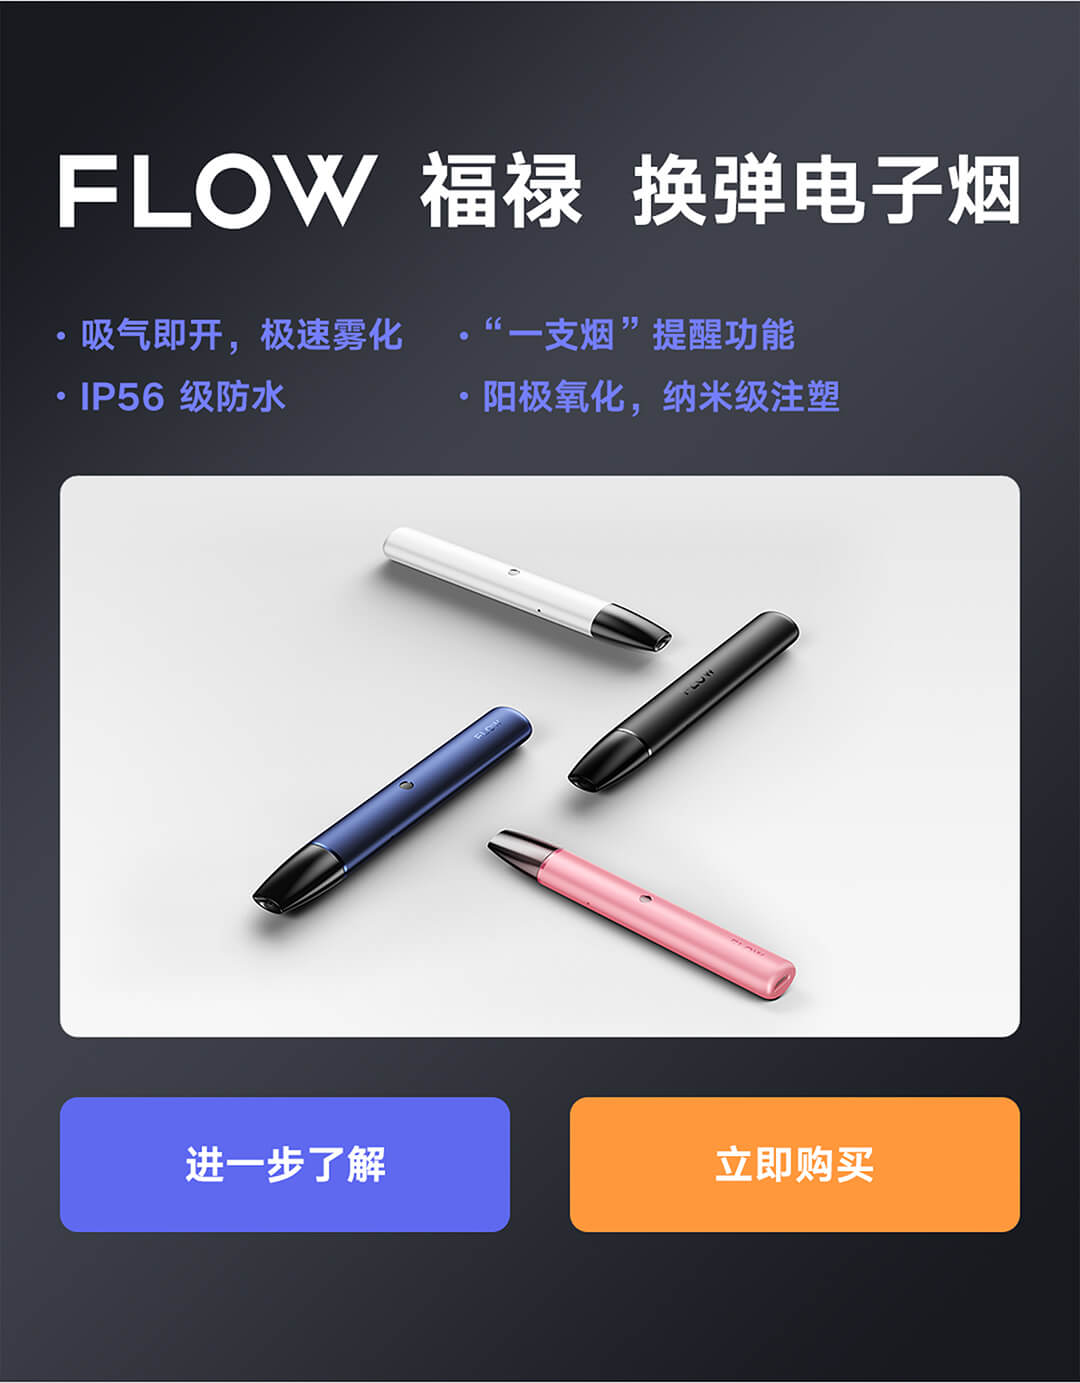
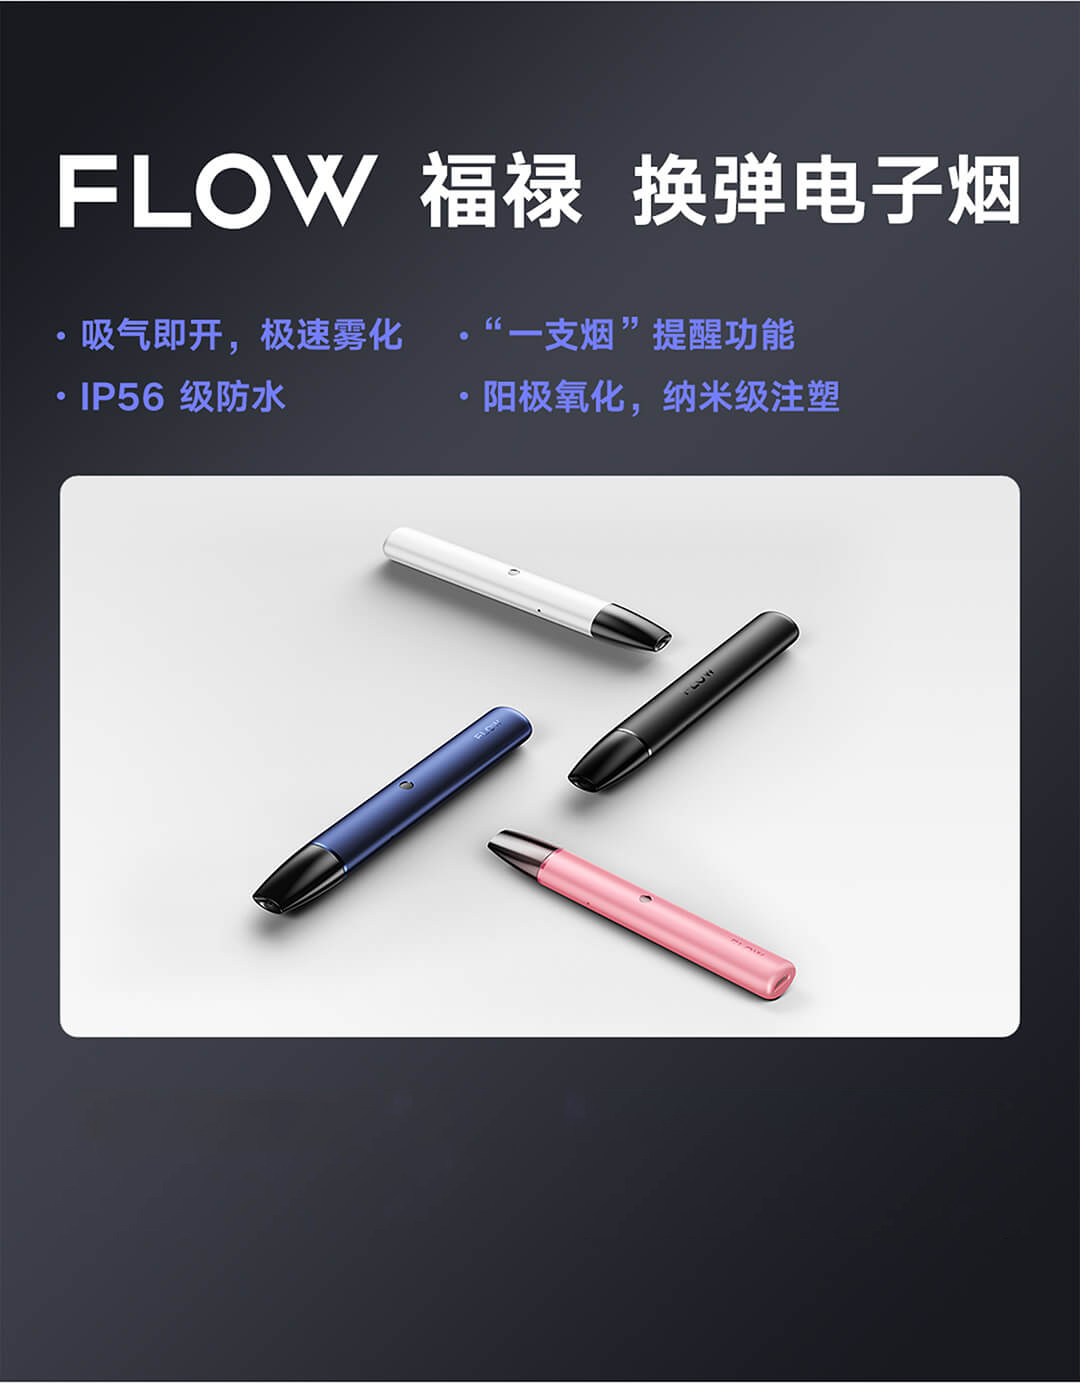
feat: remove buttons.

Changed region(s): [[0.0306, 0.7773, 0.4889, 0.9017], [0.5194, 0.7773, 0.9472, 0.9017]]

diff --git a/pages/cn/index.vue b/pages/cn/index.vue
@@ -6,29 +6,29 @@
     <div class="mini-flow">
       <img src="../../assets/images/home/home-img-3@3x.jpg" alt="FLOW 福禄小彩蛋，新一代一次性电子烟" />
       <div class="item-button">
-        <router-link to="/cn/mini-flow" tag="div"></router-link>
-        <div @click="buy('mini-flow')"></div>
+        <router-link to="/cn/mini-flow" tag="div">进一步了解</router-link>
+        <!-- <div @click="buy('mini-flow')"></div> -->
       </div>
     </div>
     <div class="flow-s">
       <img src="../../assets/images/home/home-img-4@3x.jpg" alt="FLOW 福禄 换弹电子烟 S，超长续航，一体化金属机身，多种好味道，好抽防水" />
       <div class="item-button">
-        <router-link to="/cn/flow-s" tag="div"></router-link>
-        <div @click="buy('flow-s')"></div>
+        <router-link to="/cn/flow-s" tag="div">进一步了解</router-link>
+        <!-- <div @click="buy('flow-s')"></div> -->
       </div>
     </div>
     <div class="flow">
       <img src="../../assets/images/home/home-img-5@3x.jpg" alt="FLOW 福禄 换弹电子烟" />
       <div class="item-button">
-        <router-link to="/cn/flow" tag="div"></router-link>
-        <div @click="buy('flow')"></div>
+        <router-link to="/cn/flow" tag="div">进一步了解</router-link>
+        <!-- <div @click="buy('flow')"></div> -->
       </div>
     </div>
     <div class="flow-pod">
       <img src="../../assets/images/home/home-img-6@3x.jpg" alt="FLOW 福禄 多口味烟弹" />
       <div class="item-button">
-        <router-link to="/cn/flow-pod" tag="div"></router-link>
-        <div @click="buy('flow-pod')"></div>
+        <router-link to="/cn/flow-pod" tag="div">进一步了解</router-link>
+        <!-- <div @click="buy('flow-pod')"></div> -->
       </div>
     </div>
     <img src="../../assets/images/home/home-img-7@3x.jpg" alt="提神、无烟味、呵护身边人健康" />
@@ -102,21 +102,21 @@ export default {
   }
   .item-button {
       position: absolute;
-      bottom: 10.5%;
-      width: 90%;
-      height: 2.1rem;
+      bottom: 8%;
+      width: 9rem;
+      height: 2.8rem;
+      background: #5f69ef;
+      transform: translateX(-50%);
       left: 50%;
-      transform: translate(-50%);
+      border-radius: 12px;
       div {
-        -webkit-tap-highlight-color: transparent;
-        -webkit-touch-callout: none;
-        -webkit-user-select: none;
-        height: 2.1rem;
-        float: left;
-        width: 47%;
-        &:last-child {
-          float: right;
-        }
+        font-size: 18px;
+        color: #fff;
+        font-weight: bold;
+        line-height: 2.8rem;
+        text-align: center;
+        width: 100%;
+        height: 100%;
       }
     }
 }

diff --git a/pages/cn/mini-flow.vue b/pages/cn/mini-flow.vue
@@ -14,7 +14,7 @@
     <img src="../../assets/images/mini-flow/mini-flow-img-11@3x.jpg" alt="烘焙烟草，清凉薄荷" />
     <img src="../../assets/images/mini-flow/mini-flow-img-12@3x.jpg" alt="冰镇可乐，全新包装，一撕即开，全新口味，所见即所得" />
   </div>
-  <div class="buy-btn" @click="buy()">立即购买</div>
+  <!-- <div class="buy-btn" @click="buy()">立即购买</div> -->
 </div>
 </template>
 

diff --git a/pages/cn/flow-s.vue b/pages/cn/flow-s.vue
@@ -14,7 +14,7 @@
     <img src="../../assets/images/flow-s/flow-s-img-11@3x.jpg" alt="FLOW 福禄 换弹电子烟套装 S" />
     <img src="../../assets/images/flow-s/flow-s-img-12@3x.jpg" alt="人气口味 白桃乌龙茶，成为套装自带口味烟弹" />
   </div>
-  <div class="buy-btn" @click="buy()">立即购买</div>
+  <!-- <div class="buy-btn" @click="buy()">立即购买</div> -->
 </div>
 </template>
 

diff --git a/pages/cn/flow-pod.vue b/pages/cn/flow-pod.vue
@@ -16,7 +16,7 @@
     <img src="../../assets/images/flow-pod/flow-pod-img-13@3x.jpg" alt="FLOW 福禄 安全性说明" />
     <img src="../../assets/images/flow-pod/flow-pod-img-14@3x.jpg" alt="未成年人禁用提醒" />
   </div>
-  <div class="buy-btn" @click="buy()">立即购买</div>
+  <!-- <div class="buy-btn" @click="buy()">立即购买</div> -->
 </div>
 </template>
 

diff --git a/pages/cn/flow.vue b/pages/cn/flow.vue
@@ -17,7 +17,7 @@
     <img src="../../assets/images/flow/flow-img-14@3x.jpg" alt="FLOW 福禄 安全性说明" />
     <img src="../../assets/images/flow/flow-img-15@3x.jpg" alt="未成年人禁用提醒" />
   </div>
-  <div class="buy-btn" @click="buy()">立即购买</div>
+  <!-- <div class="buy-btn" @click="buy()">立即购买</div> -->
 </div>
 </template>
 

diff --git a/components/header.vue b/components/header.vue
@@ -7,7 +7,7 @@
         @click="changeMenu()"
       >
       </i>
-      <div class="buy-btn" @click="openShopModal()">商城</div>
+      <!-- <div class="buy-btn" @click="openShopModal()">商城</div> -->
 		</header>
     <ul
       class="menu-list"
